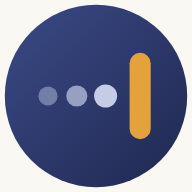
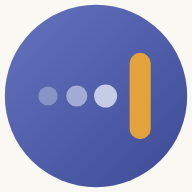
Lighter, warmer Viraam: soft periwinkle accent and a dawn gradient (peach, lilac, sky) instead of dark indigo
Claude-Session: https://claude.ai/code/session_013E4pYDxfh1tWdWGRm8hcQp

diff --git a/site/home.css b/site/home.css
@@ -3,7 +3,7 @@
   --paper:#FAF8F3;--paper-2:#F2EEE4;
   --ink:#15181A;--ink-2:#4A5157;--ink-3:#626A70;
   --rule:#DAD4C7;--rule-2:#8C8474;
-  --accent:#2E3A6E;--accent-2:#232D57;--on-accent:#FFFFFF;
+  --accent:#5262B0;--accent-2:#43529E;--on-accent:#FFFFFF;
   --warm:#8A4B2A;
   --dark:#111513;--dark-2:#171C19;
   --dark-ink:#EDE8DC;--dark-ink-2:#BDB6A7;--dark-rule:#2C332E;--dark-border:#4C574F;--dark-accent:#9BD0B4;
@@ -95,7 +95,7 @@ p{margin:0}
 .demo-controls{display:flex;flex-wrap:wrap;gap:10px;margin-top:20px}
 .demo-btn{display:inline-flex;align-items:center;justify-content:center;min-height:44px;padding:0 16px;border:1px solid var(--dark-border);border-radius:6px;background:transparent;color:var(--dark-ink);font:500 .875rem/1 var(--sans);text-decoration:none;cursor:pointer;transition:background .15s,border-color .15s,color .15s}
 .demo-btn:hover{border-color:var(--dark-accent)}
-.demo-btn-primary{background:var(--dark-accent);border-color:var(--dark-accent);color:#11142A}
+.demo-btn-primary{background:var(--dark-accent);border-color:var(--dark-accent);color:#2A3060}
 .demo-btn-primary:hover{background:#C5CCE6;border-color:#C5CCE6}
 .demo-btn:disabled{opacity:.5;cursor:not-allowed}
 #demo-done{padding-top:8px}
@@ -505,7 +505,7 @@ html,body{overflow-x:hidden}
 /* dark band additions */
 .band-lede{margin-top:18px;max-width:46em;font-size:clamp(1rem,1.3vw,1.0625rem);line-height:1.6;color:#C9C4B8}
 .band-foot{display:flex;flex-wrap:wrap;align-items:center;gap:14px 24px;margin-top:clamp(28px,4vw,40px);padding-top:22px;border-top:1px solid #2B2F40}
-.band-btn{background:#AEB7D9;border-color:#AEB7D9;color:#11142A}
+.band-btn{background:#AEB7D9;border-color:#AEB7D9;color:#2A3060}
 .band-btn:hover{background:#C5CCE6;border-color:#C5CCE6}
 .band-note{margin-left:auto;max-width:34em;font-size:.75rem;line-height:1.55;color:#B9B4A8}
 
@@ -949,7 +949,7 @@ a{-webkit-tap-highlight-color:transparent}
 .ws-reset:hover{color:var(--ink);border-color:var(--ink-3);background:var(--paper)}
 .ws-num{width:3.8ch;min-height:26px;padding:0;border:0;border-bottom:1px dashed var(--rule-2);background:transparent;font:inherit;font-variant-numeric:tabular-nums;color:var(--ink);text-align:left;appearance:textfield;border-radius:0}
 .ws-num::-webkit-outer-spin-button,.ws-num::-webkit-inner-spin-button{-webkit-appearance:none;margin:0}
-.ws-num:focus{outline:none;border-bottom-color:var(--accent);background:rgba(46,58,110,.07)}
+.ws-num:focus{outline:none;border-bottom-color:var(--accent);background:rgba(82,98,176,.07)}
 .ws-mini tr.off th,.ws-mini tr.off td{color:var(--ink-3)}
 .ws-mini tr.off .ws-num{color:var(--ink-3);border-bottom-color:var(--rule)}
 .ws-mini tr.off .st.na{background:transparent;border-style:dashed}
@@ -1279,7 +1279,7 @@ main section[id]{scroll-margin-top:calc(var(--navh,64px) + 56px)}
 
 /* ===== Logo: a mark with presence ===== */
 .brand{gap:12px!important;font-weight:600!important;letter-spacing:-.03em!important}
-.brand img{width:34px!important;height:34px!important;border-radius:9px;box-shadow:0 4px 12px -6px rgba(46,58,110,.6)}
+.brand img{width:34px!important;height:34px!important;border-radius:9px;box-shadow:0 4px 12px -6px rgba(82,98,176,.6)}
 @media (min-width:900px){.nav-inner .brand{font-size:1.75rem!important}.brand img{width:38px!important;height:38px!important}}
 @media (max-width:899px){.nav-inner .brand{font-size:1.45rem!important}}
 /* ===== Remove repetition ===== */
@@ -1301,7 +1301,7 @@ input,select,textarea{font-size:16px!important}
 
 /* ===== Brand lockup ===== */
 .brand{gap:10px!important;align-items:center}
-.brand img{width:36px!important;height:36px!important;border-radius:50%!important;box-shadow:0 6px 16px -8px rgba(31,40,80,.7)!important}
+.brand img{width:36px!important;height:36px!important;border-radius:50%!important;box-shadow:0 6px 16px -8px rgba(61,74,148,.7)!important}
 .brand .wm{font:700 1.5rem/1 var(--sans);letter-spacing:-.055em;color:var(--ink)}
 @media (min-width:900px){.brand img{width:40px!important;height:40px!important}.brand .wm{font-size:1.7rem}}
 /* ===== Headline ===== */
@@ -1397,7 +1397,7 @@ footer.foot .foot-list a{display:block;min-height:0;padding:5px 0;line-height:1.
 @media (min-width:900px){footer.foot .foot-top{align-items:stretch}}
 
 /* ===== calm background: a new soft palette each visit ===== */
-:root{--calm-a:#E4E7F3;--calm-b:#F4E9D8;--calm-c:#E2ECF2}
+:root{--calm-a:#EFE8FB;--calm-b:#FFE9DA;--calm-c:#DDEEFB}
 body{background:var(--paper)}
 body::before{content:"";position:fixed;inset:-20%;z-index:-1;pointer-events:none;
   background:
@@ -1412,7 +1412,7 @@ html{background:var(--paper)}
 body{background:transparent!important}
 .ask,.privacy-band{background:rgba(255,255,255,.35)}
 .ask .word-chips + .small{margin-top:20px}
-:root{--calm-a:#DCE0F0;--calm-b:#F2DFC4;--calm-c:#CFE1EC}
+:root{--calm-a:#E9E1FA;--calm-b:#FFE2D1;--calm-c:#D8EAFB}
 body::before{inset:-10%;background:
     radial-gradient(55% 50% at 12% 8%,var(--calm-a) 0%,transparent 70%),
     radial-gradient(55% 50% at 92% 35%,var(--calm-c) 0%,transparent 70%),
@@ -1432,7 +1432,7 @@ body::before{inset:-10%;background:
 
 /* ===== The Close ===== */
 .close-hero .trust-row li{padding-left:12px}
-.close-card{background:#fff;border:1px solid var(--rule);border-radius:22px;padding:20px;box-shadow:0 20px 50px -30px rgba(31,40,80,.35);max-width:440px;margin-left:auto}
+.close-card{background:#fff;border:1px solid var(--rule);border-radius:22px;padding:20px;box-shadow:0 20px 50px -30px rgba(61,74,148,.35);max-width:440px;margin-left:auto}
 .cc-top{display:flex;justify-content:space-between;margin:0 0 14px;font-size:.85rem;color:var(--ink-2)}.cc-top b{color:var(--accent)}
 .cc-dial{display:grid;place-items:center;aspect-ratio:2.2;border-radius:16px;background:linear-gradient(135deg,#E7E9F3,#F4EEE2)}
 .cc-dial strong{font:500 3rem/1 var(--serif);color:var(--accent)}.cc-dial span{font-size:.8rem;color:var(--ink-2);margin-top:-8px}
@@ -1458,7 +1458,7 @@ body::before{inset:-10%;background:
 .price-chips{margin:0 0 18px}
 
 .cc-dial{position:relative;overflow:hidden}.cc-dial strong,.cc-dial span{position:relative}.cc-dial span{max-width:85%;text-align:center}
-.cc-breath{position:absolute;width:44%;aspect-ratio:1;border-radius:50%;background:#2E3A6E14;transform:scale(.6);transition:transform 4s ease-in-out}
+.cc-breath{position:absolute;width:44%;aspect-ratio:1;border-radius:50%;background:#5262B014;transform:scale(.6);transition:transform 4s ease-in-out}
 .cc-dial.breathing .cc-breath{transform:scale(1.15)}
 .cc-steps li{transition:background .3s,color .3s}.cc-steps li.on{background:var(--accent);color:#fff;border-color:var(--accent)}
 

diff --git a/site/close/index.html b/site/close/index.html
@@ -10,10 +10,10 @@
 <link rel="stylesheet" href="../fonts.css">
 <link rel="manifest" href="manifest.webmanifest"><link rel="apple-touch-icon" href="../app/web/icon-192.png">
 <style>
-:root{--paper:#FAF8F3;--ink:#15181A;--ink2:#4A5157;--ink3:#626A70;--accent:#2E3A6E;--soft:#E7E9F3;--rule:#E4DED2;--warn:#8A4B12;--warnbg:#FBF1E4}
+:root{--paper:#FAF8F3;--ink:#15181A;--ink2:#4A5157;--ink3:#626A70;--accent:#5262B0;--soft:#E7E9F3;--rule:#E4DED2;--warn:#8A4B12;--warnbg:#FBF1E4}
 [hidden]{display:none!important}*{box-sizing:border-box}html,body{margin:0;height:100%}
 body{font-family:"Inter","Noto Sans Devanagari","Nirmala UI",system-ui,sans-serif;background:var(--paper);color:var(--ink);display:flex;flex-direction:column;min-height:100dvh;-webkit-font-smoothing:antialiased}
-body::before{content:"";position:fixed;inset:-10%;z-index:-1;background:radial-gradient(50% 45% at 15% 10%,#DCE0F0,transparent 70%),radial-gradient(50% 45% at 90% 30%,#CFE1EC,transparent 70%),radial-gradient(55% 50% at 40% 100%,#F2DFC4,transparent 70%)}
+body::before{content:"";position:fixed;inset:-10%;z-index:-1;background:radial-gradient(50% 45% at 15% 10%,#E9E1FA,transparent 70%),radial-gradient(50% 45% at 90% 30%,#D8EAFB,transparent 70%),radial-gradient(55% 50% at 40% 100%,#FFE2D1,transparent 70%)}
 header{display:flex;align-items:center;justify-content:space-between;gap:10px;padding:12px max(16px,env(safe-area-inset-left))}
 .brand{display:flex;align-items:center;gap:9px;font-weight:600;font-size:19px;letter-spacing:-.03em;color:var(--ink);text-decoration:none}.brand img{width:28px;height:28px}.brand .vm{font-size:22px}
 .lang{display:inline-flex;gap:2px;padding:2px;border:1px solid var(--rule);border-radius:999px;background:#fff8}
@@ -31,7 +31,7 @@ h1{font-family:"Fraunces","Noto Serif Devanagari",Georgia,serif;font-weight:500;
 .ring circle{fill:none;stroke-width:6}.ring .bg{stroke:#00000010}.ring .fg{stroke:var(--accent);stroke-linecap:round;transition:stroke-dashoffset .25s linear}
 .ring .breath{position:absolute;inset:22%;border-radius:50%;background:var(--soft);transition:transform 4s ease-in-out}
 .ring .sec{position:absolute;inset:0;display:grid;place-items:center;font:500 34px "Fraunces",Georgia,serif;color:var(--accent);font-variant-numeric:tabular-nums}
-.bar{display:flex;gap:4px;justify-content:center;margin:0 0 18px}.bar i{width:34px;height:4px;border-radius:2px;background:#00000014}.bar i.on{background:var(--accent)}.bar i.past{background:#2E3A6E66}
+.bar{display:flex;gap:4px;justify-content:center;margin:0 0 18px}.bar i{width:34px;height:4px;border-radius:2px;background:#00000014}.bar i.on{background:var(--accent)}.bar i.past{background:#5262B066}
 .do{font-size:19px;line-height:1.4;font-weight:500;margin:0 0 6px}.how{color:var(--ink2);font-size:15px;margin:0}
 input.next{width:100%;margin:16px 0 4px;font:500 17px inherit;font-family:inherit;padding:14px 16px;border:1px solid var(--rule);border-radius:14px;background:#fff;text-align:center}
 .copy{border:1px solid var(--rule);background:#fff;border-radius:999px;padding:6px 14px;font:inherit;font-size:13px;color:var(--accent);cursor:pointer;margin-top:4px}.tiny{font-size:13px;color:var(--ink3);margin:6px 0 0}
@@ -43,7 +43,7 @@ input.next{width:100%;margin:16px 0 4px;font:500 17px inherit;font-family:inheri
 .top{display:flex;justify-content:space-between;font-size:12px;letter-spacing:.12em;text-transform:uppercase;color:var(--accent);font-weight:600;margin:0 0 8px}.top #tl{color:var(--ink3);letter-spacing:.04em}
 .guide{position:relative;width:min(58vw,230px);aspect-ratio:1;margin:18px auto 22px;display:grid;place-items:center}
 .guide .arc{position:absolute;inset:0;transform:rotate(-90deg)}.guide .arc circle{fill:none;stroke-width:3}.guide .arc .bg{stroke:#00000012}.guide .arc .fg{stroke:var(--accent);stroke-linecap:round;transition:stroke-dashoffset .3s linear}
-.orb{position:absolute;inset:16%;border-radius:50%;background:radial-gradient(circle at 35% 30%,#fff,var(--soft) 60%,#D4D9EC);box-shadow:0 18px 40px -20px #2E3A6E66;transition:transform 1s ease-in-out}
+.orb{position:absolute;inset:16%;border-radius:50%;background:radial-gradient(circle at 35% 30%,#fff,var(--soft) 60%,#D4D9EC);box-shadow:0 18px 40px -20px #5262B066;transition:transform 1s ease-in-out}
 .orb.dot{inset:auto;width:18%;height:18%;top:41%;left:41%;background:var(--accent);box-shadow:none;transition:transform .2s linear;transform-origin:50% 50%}
 .guide b{position:relative;font:600 15px/1 inherit;font-family:inherit;letter-spacing:.2em;color:var(--accent)}
 .g1 .orb.dot{transition:transform 1.2s ease-in-out}
@@ -53,14 +53,14 @@ input.next{width:100%;margin:16px 0 4px;font:500 17px inherit;font-family:inheri
 .foot button{background:#fff9;border:1px solid var(--rule);border-radius:999px;text-decoration:none;padding:8px 16px}
 @media (prefers-reduced-motion:reduce){.orb{transition:none}}
 .wait,.settle{position:relative;width:min(52vw,200px);aspect-ratio:1;margin:6px auto 18px;display:grid;place-items:center}
-.orb2{position:absolute;inset:0;border-radius:50%;background:radial-gradient(circle at 35% 30%,#fff,var(--soft) 60%,#D4D9EC);box-shadow:0 22px 50px -26px #2E3A6E77;animation:breathe 6s ease-in-out infinite}
+.orb2{position:absolute;inset:0;border-radius:50%;background:radial-gradient(circle at 35% 30%,#fff,var(--soft) 60%,#D4D9EC);box-shadow:0 22px 50px -26px #5262B077;animation:breathe 6s ease-in-out infinite}
 .wait .big{position:relative;font-size:clamp(48px,14vw,72px);margin:0}
 .settle .orb2{animation:settle 2.4s ease-out forwards}
 @keyframes breathe{0%,100%{transform:scale(.86)}45%{transform:scale(1.04)}}
 @keyframes settle{from{transform:scale(1.08);opacity:.6}to{transform:scale(.7);opacity:1}}
 .h-hold{font-size:clamp(22px,5.6vw,30px)}
 .cue{margin-top:14px;background:none;border:1px solid var(--rule);border-radius:999px;padding:6px 14px;font:inherit;font-size:12px;color:var(--ink3);cursor:pointer}.cue[aria-pressed=true]{color:var(--accent);border-color:var(--accent)}
-.taskcard{background:#fff;border:1px solid var(--rule);border-radius:18px;padding:16px 18px;margin:0 auto 18px;max-width:420px;box-shadow:0 14px 34px -24px #2E3A6E55}
+.taskcard{background:#fff;border:1px solid var(--rule);border-radius:18px;padding:16px 18px;margin:0 auto 18px;max-width:420px;box-shadow:0 14px 34px -24px #5262B055}
 .taskcard span{font-size:11px;letter-spacing:.14em;text-transform:uppercase;color:var(--accent);font-weight:600}.taskcard p{font:500 22px/1.3 "Fraunces","Noto Serif Devanagari",Georgia,serif;margin:6px 0 10px}
 @media (prefers-reduced-motion:reduce){.orb2{animation:none}}
 .wait.sm{width:min(38vw,150px)}

diff --git a/site/home.js b/site/home.js
@@ -395,7 +395,7 @@ tabs.forEach(function(t,i){t.addEventListener('click',function(){sel(t);});t.add
 document.querySelectorAll('[data-pv]').forEach(function(b){b.addEventListener('click',function(){sel(document.getElementById('pvt-'+b.dataset.pv));pv.scrollIntoView({behavior:'smooth',block:'center'});});});})();
 
 /* Calm background: one of four soft palettes per visit (breath, dawn, mist, sage). */
-(function(){var p=[['#DCE0F0','#F2DFC4','#CFE1EC'],['#F3D5C2','#E3E6F2','#E3D5EC'],['#CBDFEC','#E1E4F1','#F0E2C6'],['#E6E3F0','#E8DCC6','#D9DEEF']];var c;try{var last=+sessionStorage.getItem('calm');}catch(e){}do{c=Math.floor(Math.random()*p.length);}while(c===last&&p.length>1);try{sessionStorage.setItem('calm',c);}catch(e){}var r=document.documentElement.style;r.setProperty('--calm-a',p[c][0]);r.setProperty('--calm-b',p[c][1]);r.setProperty('--calm-c',p[c][2]);})();
+(function(){var p=[['#FFE2D1','#E9E1FA','#D8EAFB'],['#FCEBC8','#EDE3FB','#FFDCD3'],['#E3EEFC','#FFE6D5','#EEE4FA'],['#FFE0E0','#F9EDCB','#E2E6FB']];var c;try{var last=+sessionStorage.getItem('calm');}catch(e){}do{c=Math.floor(Math.random()*p.length);}while(c===last&&p.length>1);try{sessionStorage.setItem('calm',c);}catch(e){}var r=document.documentElement.style;r.setProperty('--calm-a',p[c][0]);r.setProperty('--calm-b',p[c][1]);r.setProperty('--calm-c',p[c][2]);})();
 
 /* Greeting by the visitor's own clock */
 (function(){var g=document.getElementById('greet');if(!g)return;var h=new Date().getHours();

diff --git a/site/start.html b/site/start.html
@@ -85,7 +85,7 @@
     var ics=['BEGIN:VCALENDAR','VERSION:2.0','PRODID:-//Viraam//Team close//EN','BEGIN:VEVENT','UID:'+Date.now()+'@sukoon','DTSTAMP:'+ymd+'T000000','DTSTART:'+ymd+'T'+t,'DTEND:'+ymd+'T'+e,'RRULE:FREQ=WEEKLY;BYDAY=MO,TU,WE,TH,FR','SUMMARY:'+team+' · last 2½ minutes','DESCRIPTION:'+line,'END:VEVENT','END:VCALENDAR'].join('\r\n');
     $('g-ics').href='data:text/calendar;charset=utf-8,'+encodeURIComponent(ics);
     $('g-wa').href='https://wa.me/?text='+encodeURIComponent(line);
-    if(window.QRCode){$('g-qr').innerHTML='';qr=new QRCode($('g-qr'),{text:url,width:132,height:132,colorDark:'#2E3A6E',colorLight:'#ffffff'});}
+    if(window.QRCode){$('g-qr').innerHTML='';qr=new QRCode($('g-qr'),{text:url,width:132,height:132,colorDark:'#5262B0',colorLight:'#ffffff'});}
   }
   ['g-team','g-end'].forEach(function(i){$(i).addEventListener('input',paint);});
   window.addEventListener('load',paint);paint();

diff --git a/site/report.html b/site/report.html
@@ -67,7 +67,7 @@
     body::before,body::after,.nav,.toc,.foot,.pager,.skip-link{display:none!important}
     *{-webkit-print-color-adjust:exact;print-color-adjust:exact}
     .print-only{display:flex}
-    .pr-band{justify-content:space-between;align-items:center;padding:7mm 16mm;background:#2E3A6E;color:#fff;font:500 9pt var(--sans);letter-spacing:.06em;text-transform:uppercase}
+    .pr-band{justify-content:space-between;align-items:center;padding:7mm 16mm;background:#5262B0;color:#fff;font:500 9pt var(--sans);letter-spacing:.06em;text-transform:uppercase}
     .pr-band b{font:600 13pt var(--sans);letter-spacing:-.02em;text-transform:none;display:flex;align-items:center;gap:8px}
     .pr-band img{width:22px;height:22px}
     .pr-foot{justify-content:space-between;gap:12mm;padding:5mm 16mm;border-top:1px solid #DDD6C8;font:8pt var(--sans);color:#555}

diff --git a/site/fonts.css b/site/fonts.css
@@ -11,7 +11,7 @@
 .vm .dv{font-family:"Tiro Devanagari Hindi","Noto Serif Devanagari",serif;font-weight:400;font-size:1.06em;letter-spacing:0;animation-delay:-6s}
 .vm-t{display:inline-flex;align-items:center;gap:.13em;font-size:1em}
 .vm .dv .vm-t{font-size:.943em}
-.vm-t i{width:.13em;height:.13em;border-radius:50%;background:#3B4A86}
+.vm-t i{width:.13em;height:.13em;border-radius:50%;background:#6573BF}
 .vm-t i:nth-child(1){opacity:.3}.vm-t i:nth-child(2){opacity:.55}.vm-t i:nth-child(3){opacity:.85}
 .vm-t b{width:.14em;height:.78em;margin-left:.1em;border-radius:.07em;background:#D9912B}
 /* each word holds ~4.6s, then a 1.4s overlapping fade with a small rise */
